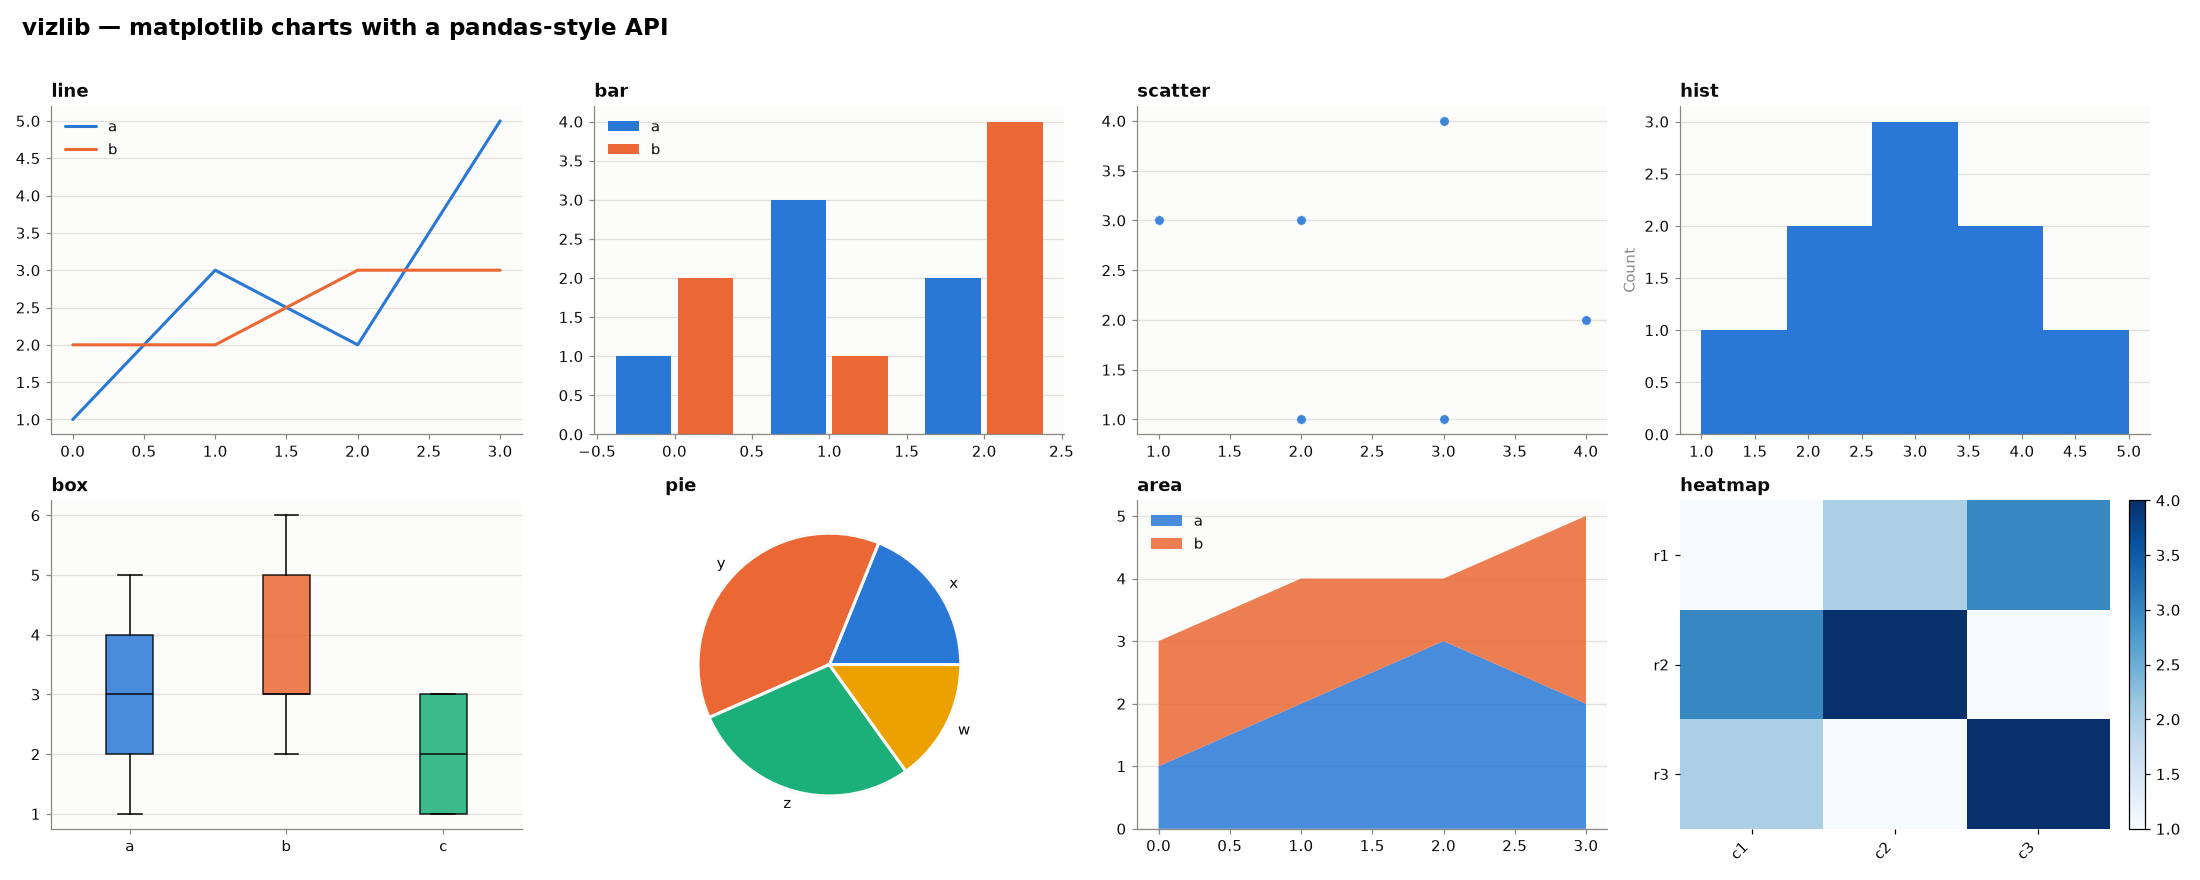
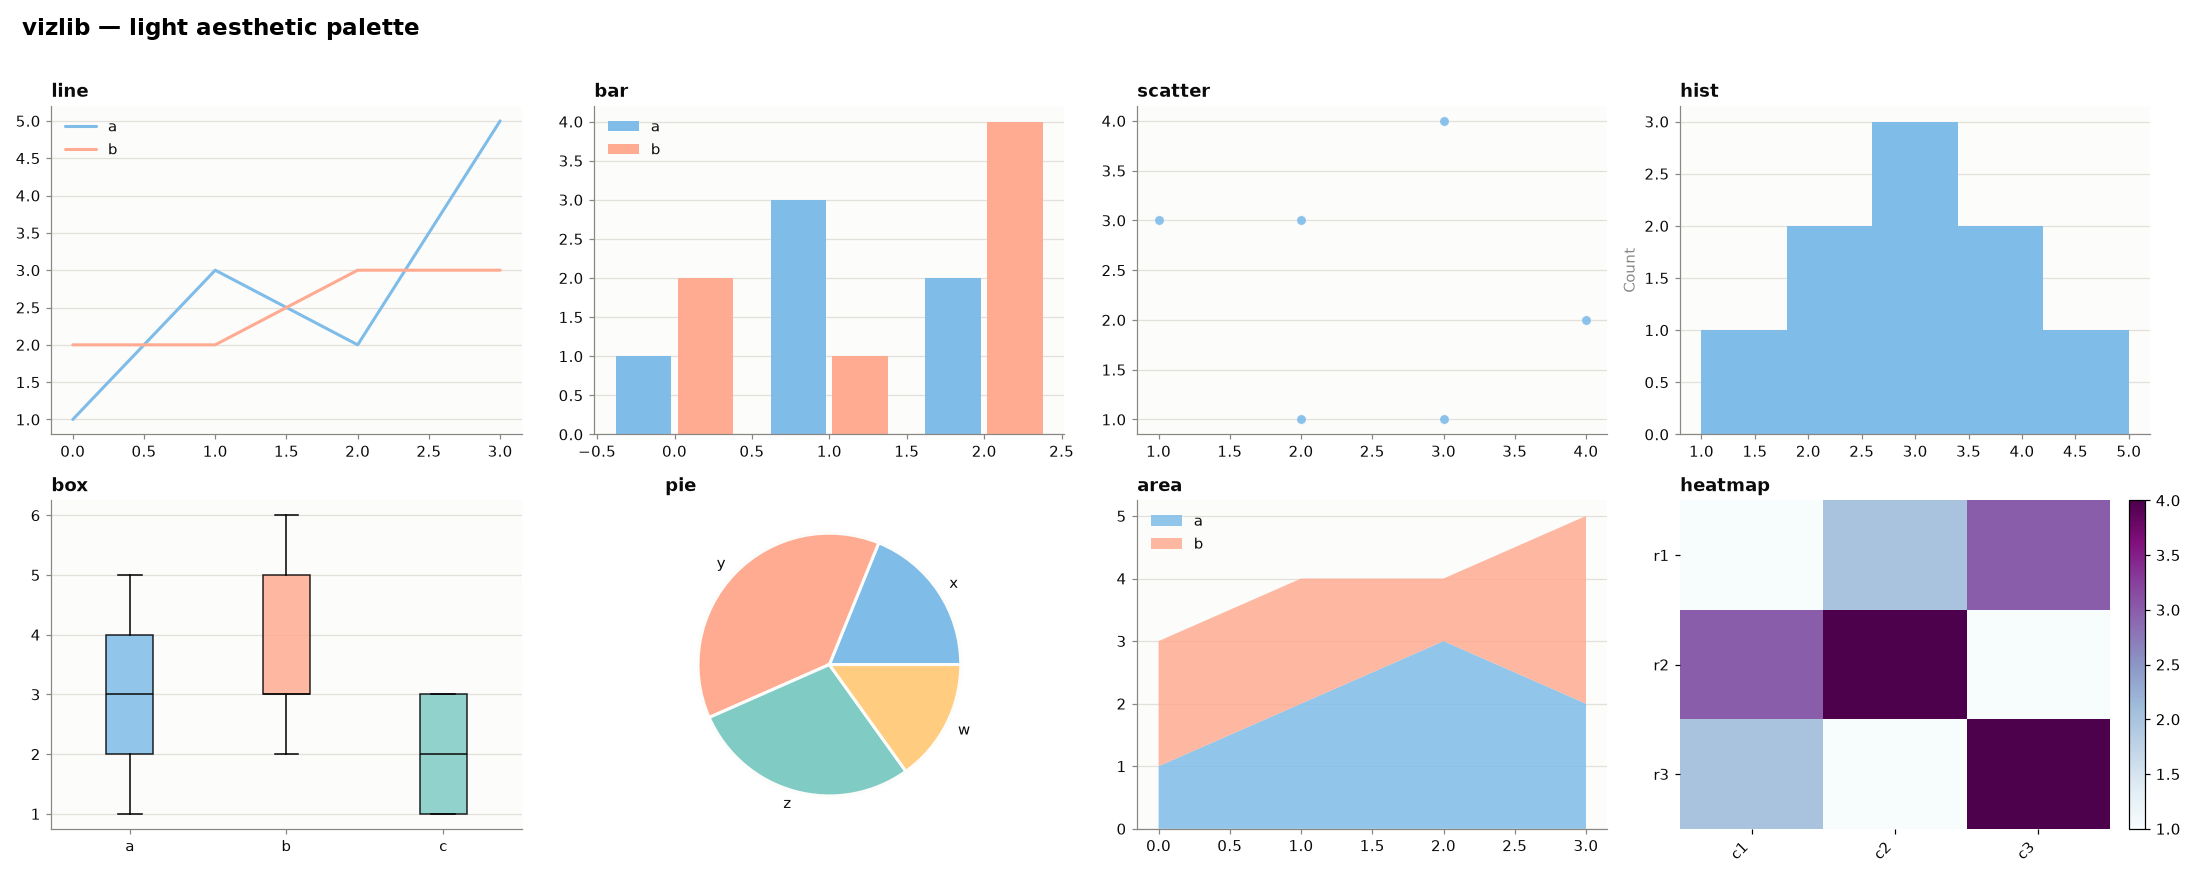
Switch to lighter pastel color palette across all chart types
Claude-Session: https://claude.ai/code/session_01FfAsF8zZjQhYCb1a4cnXpz

diff --git a/vizlib/__init__.py b/vizlib/__init__.py
@@ -10,8 +10,8 @@ sequence and returns the Axes it drew on, e.g.:
 import numpy as np
 import matplotlib.pyplot as plt
 
-COLORS = ["#2a78d6", "#eb6834", "#1baf7a", "#eda100",
-          "#e87ba4", "#008300", "#4a3aa7", "#e34948"]
+COLORS = ["#7fbce8", "#ffab91", "#80cbc4", "#ffcc80",
+          "#ce93d8", "#f48fb1", "#c5e1a5", "#9fa8da"]
 INK = "#0b0b0b"
 MUTED = "#898781"
 GRID = "#e1e0d9"
